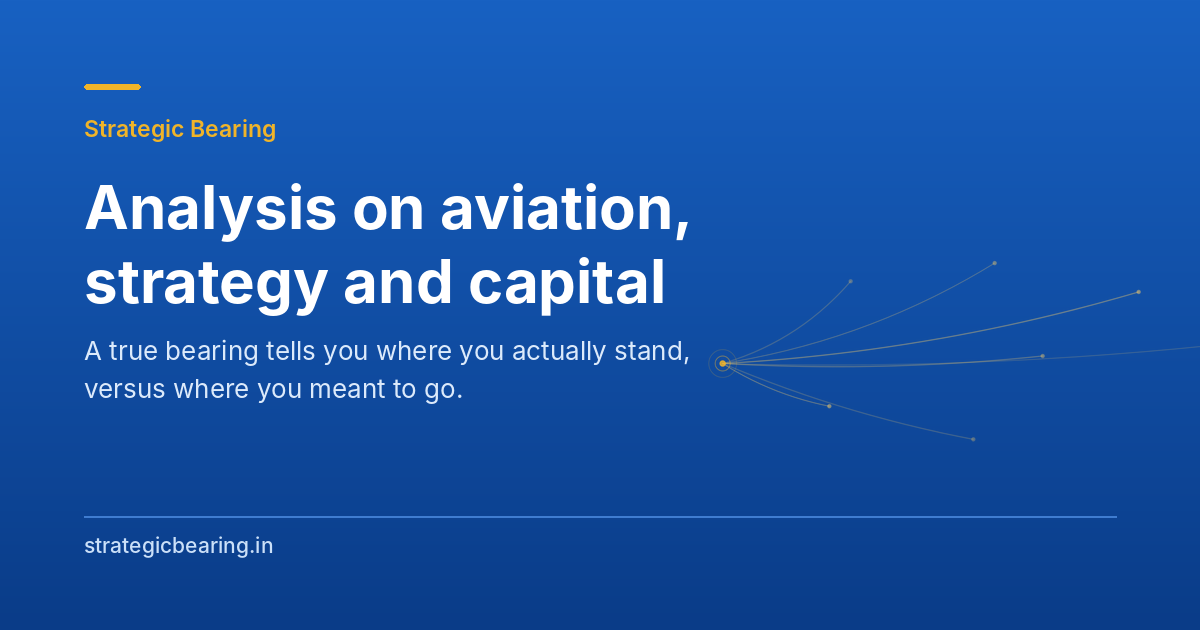
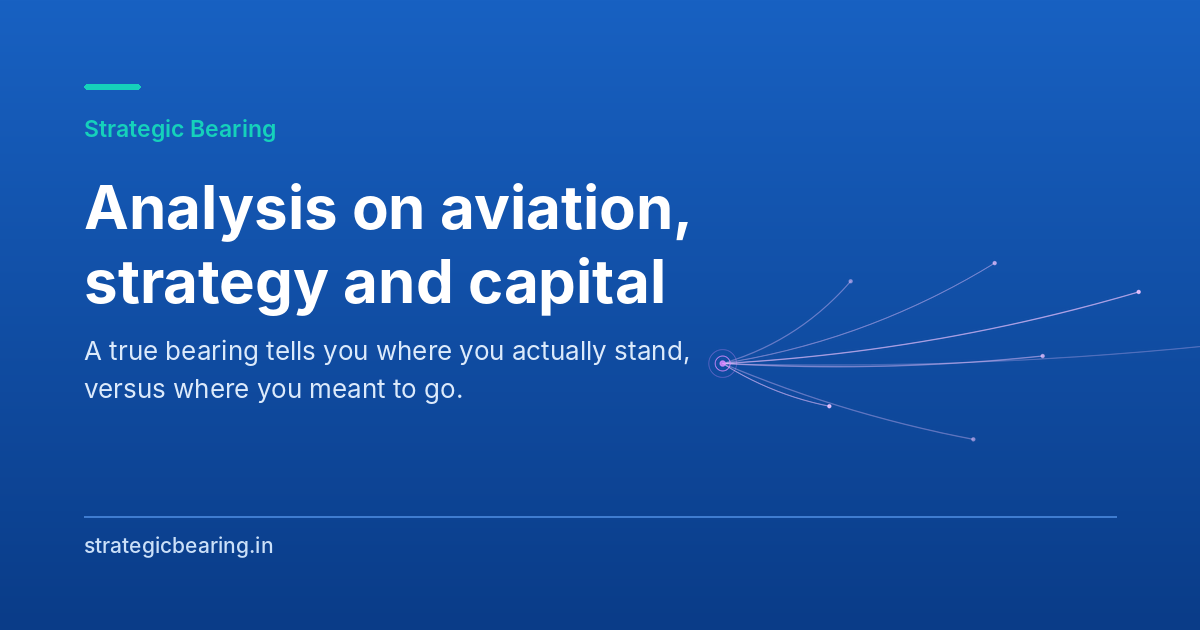
New

diff --git a/index.html b/index.html
@@ -32,10 +32,16 @@
   /* royal blue, taken from the Strategic Bearing deck */
   --ink:#082E63; --navy:#0F55B0; --navy-lift:#2171D6;
   --royal:#2171D6; --royal-deep:#0A3C88;
-  --teal:#0F5FC0;            /* accent text on light surfaces */
-  /* gold: marks, rules and fills only. Nothing saturated reaches 4.5:1 on this
-     blue, so text on blue is white or a pale tint, never the accent. */
-  --accent:#F0B429; --accent-soft:#FFD166;
+  /* mint, sampled from the deck's own accent (#15D1BB). Three steps, because
+     one mint cannot serve both a navy nav bar and white paper:
+       --mint       marks and fills on blue        3.1:1 on royal — rules, not text
+       --mint-soft  text and hover on dark         4.6:1 on the lightest point
+                                                   of the hero gradient, 6.5:1
+                                                   on the nav, 10.2:1 on ink
+       --mint-deep  marks and text on light paper  5.1:1 on paper, 5.7:1 on white */
+  --mint:#15D1BB; --mint-soft:#45FBE6; --mint-deep:#0C7468;
+  --teal:var(--mint-deep);   /* accent text on light surfaces */
+  --accent:var(--mint); --accent-soft:var(--mint-soft);
   --paper:#EEF4FD; --white:#FFFFFF;
   --text:#102A52; --muted:#53688A;
   --line:#DCE7F5; --line-on-dark:rgba(255,255,255,.16);
@@ -70,8 +76,9 @@ p{margin:0 0 18px}
 .marker{display:flex; align-items:center; gap:10px; margin-bottom:14px;
   font-size:13px; font-weight:600; color:var(--muted); letter-spacing:0}
 .marker::before{content:""; width:18px; height:2px; border-radius:2px;
-  background:var(--accent); flex:none}
+  background:var(--mint-deep); flex:none}
 .band--dark .marker{color:#A9C8EC}
+.band--dark .marker::before{background:var(--mint)}
 .lede{font-size:18px; color:var(--muted); margin:14px 0 0; max-width:60ch}
 
 /* buttons — label says what happens, no arrow glyph */
@@ -81,7 +88,7 @@ p{margin:0 0 18px}
   border:1px solid transparent; cursor:pointer;
   transition:background-color .16s ease, border-color .16s ease, color .16s ease}
 .btn--solid{background:var(--accent); color:#17244A}
-.btn--solid:hover{background:#FFC94F}
+.btn--solid:hover{background:var(--mint-soft)}
 .btn--ghost{border-color:rgba(255,255,255,.3); color:#fff}
 .btn--ghost:hover{border-color:var(--accent-soft); color:var(--accent-soft)}
 .btn--dark{background:var(--navy); color:#fff}
@@ -138,10 +145,10 @@ footer a:hover{color:var(--accent-soft)}
 .hero-sub{font-size:17.5px; line-height:1.68; color:#E3EEFB; max-width:58ch; margin-bottom:0}
 .departure{position:absolute; top:50%; right:10px; transform:translateY(-52%);
   width:620px; height:600px; z-index:1; pointer-events:none}
-/* terminal: the real photograph, faded into the hero gradient */
-.roofline{position:absolute; left:0; right:0; bottom:0; width:100%; height:150px;
-  z-index:1; pointer-events:none;
-  background:url('/terminal.png') center bottom / cover no-repeat}
+/* terminal roofline, drawn as vector so it stays exact at any width or DPI */
+.roofline{position:absolute; left:0; right:0; bottom:0; width:100%; height:176px;
+  z-index:1; pointer-events:none; display:block}
+.roofline .roof{display:block; width:100%; height:100%}
 
 /* facts rail under the hero, no caps, no middle dots */
 .facts{border-top:1px solid var(--line-on-dark); background:rgba(255,255,255,.07);
@@ -213,7 +220,7 @@ footer a:hover{color:var(--accent-soft)}
 @media (max-width:760px){
   .hero .wrap{padding-top:68px; padding-bottom:132px}
   .departure{display:none}
-  .roofline{height:104px}
+  .roofline{height:116px}
   .facts .wrap{grid-template-columns:1fr; gap:14px}
   .stop{grid-template-columns:1fr; gap:6px}
   .stop::before{display:none}
@@ -245,11 +252,27 @@ footer a:hover{color:var(--accent-soft)}
 <header class="hero">
   <div class="hero-main">
   <svg class="departure" viewBox="0 0 620 600" aria-hidden="true" focusable="false">
-<path d="M 142.0 368.0 Q 267.1 275.2 318.0 128.0" fill="none" stroke="#FFD166" stroke-width="2.3" opacity="0.30" stroke-linecap="round"/><path d="M 142.0 368.0 Q 337.4 271.4 452.0 86.0" fill="none" stroke="#FFD166" stroke-width="1.7" opacity="0.42" stroke-linecap="round"/><path d="M 142.0 368.0 Q 375.2 311.3 560.0 158.0" fill="none" stroke="#FFD166" stroke-width="1.7" opacity="0.54" stroke-linecap="round"/><path d="M 142.0 368.0 Q 366.6 358.4 578.0 282.0" fill="none" stroke="#FFD166" stroke-width="2.3" opacity="0.30" stroke-linecap="round"/><path d="M 142.0 368.0 Q 314.3 388.0 486.0 364.0" fill="none" stroke="#FFD166" stroke-width="1.7" opacity="0.42" stroke-linecap="round"/><path d="M 142.0 368.0 Q 235.5 336.6 300.0 262.0" fill="none" stroke="#FFD166" stroke-width="1.7" opacity="0.54" stroke-linecap="round"/><path d="M 142.0 368.0 Q 197.1 263.6 206.0 146.0" fill="none" stroke="#FFD166" stroke-width="2.3" opacity="0.30" stroke-linecap="round"/><path d="M 452.0 86.0 Q 494.9 138.6 560.0 158.0" fill="none" stroke="#FFD166" stroke-width="1.2" opacity="0.24" stroke-dasharray="3 5"/><path d="M 300.0 262.0 Q 384.3 328.8 486.0 364.0" fill="none" stroke="#FFD166" stroke-width="1.2" opacity="0.2" stroke-dasharray="3 5"/>
-<circle cx="318" cy="128" r="3.4" fill="#FFD166" opacity="0.42"/><circle cx="452" cy="86" r="3.4" fill="#FFD166" opacity="0.56"/><circle cx="560" cy="158" r="3.4" fill="#FFD166" opacity="0.70"/><circle cx="578" cy="282" r="3.4" fill="#FFD166" opacity="0.42"/><circle cx="486" cy="364" r="3.4" fill="#FFD166" opacity="0.56"/><circle cx="300" cy="262" r="3.4" fill="#FFD166" opacity="0.70"/><circle cx="206" cy="146" r="3.4" fill="#FFD166" opacity="0.42"/>
-<circle cx="142" cy="368" r="30" fill="none" stroke="#F0B429" stroke-width="1" opacity=".3"/><circle cx="142" cy="368" r="17" fill="none" stroke="#F0B429" stroke-width="1.5" opacity=".6"/><circle cx="142" cy="368" r="6" fill="#F0B429" opacity="1"/>
+<path d="M 142.0 368.0 Q 267.1 275.2 318.0 128.0" fill="none" stroke="#45FBE6" stroke-width="2.3" opacity="0.30" stroke-linecap="round"/><path d="M 142.0 368.0 Q 337.4 271.4 452.0 86.0" fill="none" stroke="#45FBE6" stroke-width="1.7" opacity="0.42" stroke-linecap="round"/><path d="M 142.0 368.0 Q 375.2 311.3 560.0 158.0" fill="none" stroke="#45FBE6" stroke-width="1.7" opacity="0.54" stroke-linecap="round"/><path d="M 142.0 368.0 Q 366.6 358.4 578.0 282.0" fill="none" stroke="#45FBE6" stroke-width="2.3" opacity="0.30" stroke-linecap="round"/><path d="M 142.0 368.0 Q 314.3 388.0 486.0 364.0" fill="none" stroke="#45FBE6" stroke-width="1.7" opacity="0.42" stroke-linecap="round"/><path d="M 142.0 368.0 Q 235.5 336.6 300.0 262.0" fill="none" stroke="#45FBE6" stroke-width="1.7" opacity="0.54" stroke-linecap="round"/><path d="M 142.0 368.0 Q 197.1 263.6 206.0 146.0" fill="none" stroke="#45FBE6" stroke-width="2.3" opacity="0.30" stroke-linecap="round"/><path d="M 452.0 86.0 Q 494.9 138.6 560.0 158.0" fill="none" stroke="#45FBE6" stroke-width="1.2" opacity="0.24" stroke-dasharray="3 5"/><path d="M 300.0 262.0 Q 384.3 328.8 486.0 364.0" fill="none" stroke="#45FBE6" stroke-width="1.2" opacity="0.2" stroke-dasharray="3 5"/>
+<circle cx="318" cy="128" r="3.4" fill="#45FBE6" opacity="0.42"/><circle cx="452" cy="86" r="3.4" fill="#45FBE6" opacity="0.56"/><circle cx="560" cy="158" r="3.4" fill="#45FBE6" opacity="0.70"/><circle cx="578" cy="282" r="3.4" fill="#45FBE6" opacity="0.42"/><circle cx="486" cy="364" r="3.4" fill="#45FBE6" opacity="0.56"/><circle cx="300" cy="262" r="3.4" fill="#45FBE6" opacity="0.70"/><circle cx="206" cy="146" r="3.4" fill="#45FBE6" opacity="0.42"/>
+<circle cx="142" cy="368" r="30" fill="none" stroke="#15D1BB" stroke-width="1" opacity=".3"/><circle cx="142" cy="368" r="17" fill="none" stroke="#15D1BB" stroke-width="1.5" opacity=".6"/><circle cx="142" cy="368" r="6" fill="#15D1BB" opacity="1"/>
 </svg>
-  <div class="roofline"></div>
+  <div class="roofline"><svg class="roof" viewBox="0 0 1600 176" preserveAspectRatio="xMidYMax slice" aria-hidden="true" focusable="false" xmlns="http://www.w3.org/2000/svg"><defs>
+<linearGradient id="glass0" x1="0" y1="1" x2="0" y2="0">
+  <stop offset="0" stop-color="#15D1BB" stop-opacity="0"/>
+  <stop offset=".34" stop-color="#15D1BB" stop-opacity=".16"/>
+  <stop offset=".72" stop-color="#45FBE6" stop-opacity=".42"/>
+  <stop offset="1" stop-color="#D8FFF8" stop-opacity=".52"/>
+</linearGradient>
+<linearGradient id="glass1" x1="0" y1="1" x2="0" y2="0">
+  <stop offset="0" stop-color="#15D1BB" stop-opacity="0"/>
+  <stop offset=".6" stop-color="#15D1BB" stop-opacity=".10"/>
+  <stop offset="1" stop-color="#45FBE6" stop-opacity=".16"/>
+</linearGradient>
+<linearGradient id="deckfade" x1="0" y1="0" x2="0" y2="1">
+  <stop offset="0" stop-color="#A8DCFF" stop-opacity=".30"/>
+  <stop offset="1" stop-color="#A8DCFF" stop-opacity="0"/>
+</linearGradient>
+</defs><path d="M -174.0 150 Q -24.0 46.0 126.0 150 L -174.0 150 Z" fill="url(#glass1)" opacity="1"/><line x1="-150.9" y1="135.2" x2="-150.9" y2="150" stroke="#9FD2F5" stroke-width="1.15" opacity="0.1"/><line x1="-127.8" y1="122.9" x2="-127.8" y2="150" stroke="#9FD2F5" stroke-width="1.15" opacity="0.1"/><line x1="-104.8" y1="113.1" x2="-104.8" y2="150" stroke="#9FD2F5" stroke-width="1.15" opacity="0.1"/><line x1="-81.7" y1="105.7" x2="-81.7" y2="150" stroke="#9FD2F5" stroke-width="1.15" opacity="0.1"/><line x1="-58.6" y1="100.8" x2="-58.6" y2="150" stroke="#9FD2F5" stroke-width="1.15" opacity="0.1"/><line x1="-35.5" y1="98.3" x2="-35.5" y2="150" stroke="#9FD2F5" stroke-width="1.15" opacity="0.1"/><line x1="-12.5" y1="98.3" x2="-12.5" y2="150" stroke="#9FD2F5" stroke-width="1.15" opacity="0.1"/><line x1="10.6" y1="100.8" x2="10.6" y2="150" stroke="#9FD2F5" stroke-width="1.15" opacity="0.1"/><line x1="33.7" y1="105.7" x2="33.7" y2="150" stroke="#9FD2F5" stroke-width="1.15" opacity="0.1"/><line x1="56.8" y1="113.1" x2="56.8" y2="150" stroke="#9FD2F5" stroke-width="1.15" opacity="0.1"/><line x1="79.8" y1="122.9" x2="79.8" y2="150" stroke="#9FD2F5" stroke-width="1.15" opacity="0.1"/><line x1="102.9" y1="135.2" x2="102.9" y2="150" stroke="#9FD2F5" stroke-width="1.15" opacity="0.1"/><path d="M 126.0 150 Q 276.0 46.0 426.0 150 L 126.0 150 Z" fill="url(#glass1)" opacity="1"/><line x1="149.1" y1="135.2" x2="149.1" y2="150" stroke="#9FD2F5" stroke-width="1.15" opacity="0.1"/><line x1="172.2" y1="122.9" x2="172.2" y2="150" stroke="#9FD2F5" stroke-width="1.15" opacity="0.1"/><line x1="195.2" y1="113.1" x2="195.2" y2="150" stroke="#9FD2F5" stroke-width="1.15" opacity="0.1"/><line x1="218.3" y1="105.7" x2="218.3" y2="150" stroke="#9FD2F5" stroke-width="1.15" opacity="0.1"/><line x1="241.4" y1="100.8" x2="241.4" y2="150" stroke="#9FD2F5" stroke-width="1.15" opacity="0.1"/><line x1="264.5" y1="98.3" x2="264.5" y2="150" stroke="#9FD2F5" stroke-width="1.15" opacity="0.1"/><line x1="287.5" y1="98.3" x2="287.5" y2="150" stroke="#9FD2F5" stroke-width="1.15" opacity="0.1"/><line x1="310.6" y1="100.8" x2="310.6" y2="150" stroke="#9FD2F5" stroke-width="1.15" opacity="0.1"/><line x1="333.7" y1="105.7" x2="333.7" y2="150" stroke="#9FD2F5" stroke-width="1.15" opacity="0.1"/><line x1="356.8" y1="113.1" x2="356.8" y2="150" stroke="#9FD2F5" stroke-width="1.15" opacity="0.1"/><line x1="379.8" y1="122.9" x2="379.8" y2="150" stroke="#9FD2F5" stroke-width="1.15" opacity="0.1"/><line x1="402.9" y1="135.2" x2="402.9" y2="150" stroke="#9FD2F5" stroke-width="1.15" opacity="0.1"/><path d="M 426.0 150 Q 576.0 46.0 726.0 150 L 426.0 150 Z" fill="url(#glass1)" opacity="1"/><line x1="449.1" y1="135.2" x2="449.1" y2="150" stroke="#9FD2F5" stroke-width="1.15" opacity="0.1"/><line x1="472.2" y1="122.9" x2="472.2" y2="150" stroke="#9FD2F5" stroke-width="1.15" opacity="0.1"/><line x1="495.2" y1="113.1" x2="495.2" y2="150" stroke="#9FD2F5" stroke-width="1.15" opacity="0.1"/><line x1="518.3" y1="105.7" x2="518.3" y2="150" stroke="#9FD2F5" stroke-width="1.15" opacity="0.1"/><line x1="541.4" y1="100.8" x2="541.4" y2="150" stroke="#9FD2F5" stroke-width="1.15" opacity="0.1"/><line x1="564.5" y1="98.3" x2="564.5" y2="150" stroke="#9FD2F5" stroke-width="1.15" opacity="0.1"/><line x1="587.5" y1="98.3" x2="587.5" y2="150" stroke="#9FD2F5" stroke-width="1.15" opacity="0.1"/><line x1="610.6" y1="100.8" x2="610.6" y2="150" stroke="#9FD2F5" stroke-width="1.15" opacity="0.1"/><line x1="633.7" y1="105.7" x2="633.7" y2="150" stroke="#9FD2F5" stroke-width="1.15" opacity="0.1"/><line x1="656.8" y1="113.1" x2="656.8" y2="150" stroke="#9FD2F5" stroke-width="1.15" opacity="0.1"/><line x1="679.8" y1="122.9" x2="679.8" y2="150" stroke="#9FD2F5" stroke-width="1.15" opacity="0.1"/><line x1="702.9" y1="135.2" x2="702.9" y2="150" stroke="#9FD2F5" stroke-width="1.15" opacity="0.1"/><path d="M 726.0 150 Q 876.0 46.0 1026.0 150 L 726.0 150 Z" fill="url(#glass1)" opacity="1"/><line x1="749.1" y1="135.2" x2="749.1" y2="150" stroke="#9FD2F5" stroke-width="1.15" opacity="0.1"/><line x1="772.2" y1="122.9" x2="772.2" y2="150" stroke="#9FD2F5" stroke-width="1.15" opacity="0.1"/><line x1="795.2" y1="113.1" x2="795.2" y2="150" stroke="#9FD2F5" stroke-width="1.15" opacity="0.1"/><line x1="818.3" y1="105.7" x2="818.3" y2="150" stroke="#9FD2F5" stroke-width="1.15" opacity="0.1"/><line x1="841.4" y1="100.8" x2="841.4" y2="150" stroke="#9FD2F5" stroke-width="1.15" opacity="0.1"/><line x1="864.5" y1="98.3" x2="864.5" y2="150" stroke="#9FD2F5" stroke-width="1.15" opacity="0.1"/><line x1="887.5" y1="98.3" x2="887.5" y2="150" stroke="#9FD2F5" stroke-width="1.15" opacity="0.1"/><line x1="910.6" y1="100.8" x2="910.6" y2="150" stroke="#9FD2F5" stroke-width="1.15" opacity="0.1"/><line x1="933.7" y1="105.7" x2="933.7" y2="150" stroke="#9FD2F5" stroke-width="1.15" opacity="0.1"/><line x1="956.8" y1="113.1" x2="956.8" y2="150" stroke="#9FD2F5" stroke-width="1.15" opacity="0.1"/><line x1="979.8" y1="122.9" x2="979.8" y2="150" stroke="#9FD2F5" stroke-width="1.15" opacity="0.1"/><line x1="1002.9" y1="135.2" x2="1002.9" y2="150" stroke="#9FD2F5" stroke-width="1.15" opacity="0.1"/><path d="M 1026.0 150 Q 1176.0 46.0 1326.0 150 L 1026.0 150 Z" fill="url(#glass1)" opacity="1"/><line x1="1049.1" y1="135.2" x2="1049.1" y2="150" stroke="#9FD2F5" stroke-width="1.15" opacity="0.1"/><line x1="1072.2" y1="122.9" x2="1072.2" y2="150" stroke="#9FD2F5" stroke-width="1.15" opacity="0.1"/><line x1="1095.2" y1="113.1" x2="1095.2" y2="150" stroke="#9FD2F5" stroke-width="1.15" opacity="0.1"/><line x1="1118.3" y1="105.7" x2="1118.3" y2="150" stroke="#9FD2F5" stroke-width="1.15" opacity="0.1"/><line x1="1141.4" y1="100.8" x2="1141.4" y2="150" stroke="#9FD2F5" stroke-width="1.15" opacity="0.1"/><line x1="1164.5" y1="98.3" x2="1164.5" y2="150" stroke="#9FD2F5" stroke-width="1.15" opacity="0.1"/><line x1="1187.5" y1="98.3" x2="1187.5" y2="150" stroke="#9FD2F5" stroke-width="1.15" opacity="0.1"/><line x1="1210.6" y1="100.8" x2="1210.6" y2="150" stroke="#9FD2F5" stroke-width="1.15" opacity="0.1"/><line x1="1233.7" y1="105.7" x2="1233.7" y2="150" stroke="#9FD2F5" stroke-width="1.15" opacity="0.1"/><line x1="1256.8" y1="113.1" x2="1256.8" y2="150" stroke="#9FD2F5" stroke-width="1.15" opacity="0.1"/><line x1="1279.8" y1="122.9" x2="1279.8" y2="150" stroke="#9FD2F5" stroke-width="1.15" opacity="0.1"/><line x1="1302.9" y1="135.2" x2="1302.9" y2="150" stroke="#9FD2F5" stroke-width="1.15" opacity="0.1"/><path d="M 1326.0 150 Q 1476.0 46.0 1626.0 150 L 1326.0 150 Z" fill="url(#glass1)" opacity="1"/><line x1="1349.1" y1="135.2" x2="1349.1" y2="150" stroke="#9FD2F5" stroke-width="1.15" opacity="0.1"/><line x1="1372.2" y1="122.9" x2="1372.2" y2="150" stroke="#9FD2F5" stroke-width="1.15" opacity="0.1"/><line x1="1395.2" y1="113.1" x2="1395.2" y2="150" stroke="#9FD2F5" stroke-width="1.15" opacity="0.1"/><line x1="1418.3" y1="105.7" x2="1418.3" y2="150" stroke="#9FD2F5" stroke-width="1.15" opacity="0.1"/><line x1="1441.4" y1="100.8" x2="1441.4" y2="150" stroke="#9FD2F5" stroke-width="1.15" opacity="0.1"/><line x1="1464.5" y1="98.3" x2="1464.5" y2="150" stroke="#9FD2F5" stroke-width="1.15" opacity="0.1"/><line x1="1487.5" y1="98.3" x2="1487.5" y2="150" stroke="#9FD2F5" stroke-width="1.15" opacity="0.1"/><line x1="1510.6" y1="100.8" x2="1510.6" y2="150" stroke="#9FD2F5" stroke-width="1.15" opacity="0.1"/><line x1="1533.7" y1="105.7" x2="1533.7" y2="150" stroke="#9FD2F5" stroke-width="1.15" opacity="0.1"/><line x1="1556.8" y1="113.1" x2="1556.8" y2="150" stroke="#9FD2F5" stroke-width="1.15" opacity="0.1"/><line x1="1579.8" y1="122.9" x2="1579.8" y2="150" stroke="#9FD2F5" stroke-width="1.15" opacity="0.1"/><line x1="1602.9" y1="135.2" x2="1602.9" y2="150" stroke="#9FD2F5" stroke-width="1.15" opacity="0.1"/><path d="M -86.2 154 Q 109.8 4.0 305.8 154 L -86.2 154 Z" fill="url(#glass0)" opacity="1"/><line x1="-69.2" y1="141.5" x2="-69.2" y2="154" stroke="#0A2A5C" stroke-width="1.15" opacity="0.46"/><line x1="-52.2" y1="130.2" x2="-52.2" y2="154" stroke="#0A2A5C" stroke-width="1.15" opacity="0.46"/><line x1="-35.1" y1="120.0" x2="-35.1" y2="154" stroke="#0A2A5C" stroke-width="1.15" opacity="0.46"/><line x1="-18.1" y1="110.9" x2="-18.1" y2="154" stroke="#0A2A5C" stroke-width="1.15" opacity="0.46"/><line x1="-1.0" y1="103.0" x2="-1.0" y2="154" stroke="#0A2A5C" stroke-width="1.15" opacity="0.46"/><line x1="16.0" y1="96.2" x2="16.0" y2="154" stroke="#0A2A5C" stroke-width="1.15" opacity="0.46"/><line x1="33.1" y1="90.5" x2="33.1" y2="154" stroke="#0A2A5C" stroke-width="1.15" opacity="0.46"/><line x1="50.1" y1="85.9" x2="50.1" y2="154" stroke="#0A2A5C" stroke-width="1.15" opacity="0.46"/><line x1="67.2" y1="82.5" x2="67.2" y2="154" stroke="#0A2A5C" stroke-width="1.15" opacity="0.46"/><line x1="84.2" y1="80.3" x2="84.2" y2="154" stroke="#0A2A5C" stroke-width="1.15" opacity="0.46"/><line x1="101.2" y1="79.1" x2="101.2" y2="154" stroke="#0A2A5C" stroke-width="1.15" opacity="0.46"/><line x1="118.3" y1="79.1" x2="118.3" y2="154" stroke="#0A2A5C" stroke-width="1.15" opacity="0.46"/><line x1="135.3" y1="80.3" x2="135.3" y2="154" stroke="#0A2A5C" stroke-width="1.15" opacity="0.46"/><line x1="152.4" y1="82.5" x2="152.4" y2="154" stroke="#0A2A5C" stroke-width="1.15" opacity="0.46"/><line x1="169.4" y1="85.9" x2="169.4" y2="154" stroke="#0A2A5C" stroke-width="1.15" opacity="0.46"/><line x1="186.5" y1="90.5" x2="186.5" y2="154" stroke="#0A2A5C" stroke-width="1.15" opacity="0.46"/><line x1="203.5" y1="96.2" x2="203.5" y2="154" stroke="#0A2A5C" stroke-width="1.15" opacity="0.46"/><line x1="220.5" y1="103.0" x2="220.5" y2="154" stroke="#0A2A5C" stroke-width="1.15" opacity="0.46"/><line x1="237.6" y1="110.9" x2="237.6" y2="154" stroke="#0A2A5C" stroke-width="1.15" opacity="0.46"/><line x1="254.6" y1="120.0" x2="254.6" y2="154" stroke="#0A2A5C" stroke-width="1.15" opacity="0.46"/><line x1="271.7" y1="130.2" x2="271.7" y2="154" stroke="#0A2A5C" stroke-width="1.15" opacity="0.46"/><line x1="288.7" y1="141.5" x2="288.7" y2="154" stroke="#0A2A5C" stroke-width="1.15" opacity="0.46"/><path d="M -86.2 154 Q 109.8 4.0 305.8 154" fill="none" stroke="#0A2A5C" stroke-width="2.6" opacity="0.74" stroke-linecap="round"/><path d="M 305.8 154 Q 501.8 4.0 697.8 154 L 305.8 154 Z" fill="url(#glass0)" opacity="1"/><line x1="322.8" y1="141.5" x2="322.8" y2="154" stroke="#0A2A5C" stroke-width="1.15" opacity="0.46"/><line x1="339.8" y1="130.2" x2="339.8" y2="154" stroke="#0A2A5C" stroke-width="1.15" opacity="0.46"/><line x1="356.9" y1="120.0" x2="356.9" y2="154" stroke="#0A2A5C" stroke-width="1.15" opacity="0.46"/><line x1="373.9" y1="110.9" x2="373.9" y2="154" stroke="#0A2A5C" stroke-width="1.15" opacity="0.46"/><line x1="391.0" y1="103.0" x2="391.0" y2="154" stroke="#0A2A5C" stroke-width="1.15" opacity="0.46"/><line x1="408.0" y1="96.2" x2="408.0" y2="154" stroke="#0A2A5C" stroke-width="1.15" opacity="0.46"/><line x1="425.1" y1="90.5" x2="425.1" y2="154" stroke="#0A2A5C" stroke-width="1.15" opacity="0.46"/><line x1="442.1" y1="85.9" x2="442.1" y2="154" stroke="#0A2A5C" stroke-width="1.15" opacity="0.46"/><line x1="459.2" y1="82.5" x2="459.2" y2="154" stroke="#0A2A5C" stroke-width="1.15" opacity="0.46"/><line x1="476.2" y1="80.3" x2="476.2" y2="154" stroke="#0A2A5C" stroke-width="1.15" opacity="0.46"/><line x1="493.2" y1="79.1" x2="493.2" y2="154" stroke="#0A2A5C" stroke-width="1.15" opacity="0.46"/><line x1="510.3" y1="79.1" x2="510.3" y2="154" stroke="#0A2A5C" stroke-width="1.15" opacity="0.46"/><line x1="527.3" y1="80.3" x2="527.3" y2="154" stroke="#0A2A5C" stroke-width="1.15" opacity="0.46"/><line x1="544.4" y1="82.5" x2="544.4" y2="154" stroke="#0A2A5C" stroke-width="1.15" opacity="0.46"/><line x1="561.4" y1="85.9" x2="561.4" y2="154" stroke="#0A2A5C" stroke-width="1.15" opacity="0.46"/><line x1="578.5" y1="90.5" x2="578.5" y2="154" stroke="#0A2A5C" stroke-width="1.15" opacity="0.46"/><line x1="595.5" y1="96.2" x2="595.5" y2="154" stroke="#0A2A5C" stroke-width="1.15" opacity="0.46"/><line x1="612.5" y1="103.0" x2="612.5" y2="154" stroke="#0A2A5C" stroke-width="1.15" opacity="0.46"/><line x1="629.6" y1="110.9" x2="629.6" y2="154" stroke="#0A2A5C" stroke-width="1.15" opacity="0.46"/><line x1="646.6" y1="120.0" x2="646.6" y2="154" stroke="#0A2A5C" stroke-width="1.15" opacity="0.46"/><line x1="663.7" y1="130.2" x2="663.7" y2="154" stroke="#0A2A5C" stroke-width="1.15" opacity="0.46"/><line x1="680.7" y1="141.5" x2="680.7" y2="154" stroke="#0A2A5C" stroke-width="1.15" opacity="0.46"/><path d="M 305.8 154 Q 501.8 4.0 697.8 154" fill="none" stroke="#0A2A5C" stroke-width="2.6" opacity="0.74" stroke-linecap="round"/><path d="M 697.8 154 Q 893.8 4.0 1089.8 154 L 697.8 154 Z" fill="url(#glass0)" opacity="1"/><line x1="714.8" y1="141.5" x2="714.8" y2="154" stroke="#0A2A5C" stroke-width="1.15" opacity="0.46"/><line x1="731.8" y1="130.2" x2="731.8" y2="154" stroke="#0A2A5C" stroke-width="1.15" opacity="0.46"/><line x1="748.9" y1="120.0" x2="748.9" y2="154" stroke="#0A2A5C" stroke-width="1.15" opacity="0.46"/><line x1="765.9" y1="110.9" x2="765.9" y2="154" stroke="#0A2A5C" stroke-width="1.15" opacity="0.46"/><line x1="783.0" y1="103.0" x2="783.0" y2="154" stroke="#0A2A5C" stroke-width="1.15" opacity="0.46"/><line x1="800.0" y1="96.2" x2="800.0" y2="154" stroke="#0A2A5C" stroke-width="1.15" opacity="0.46"/><line x1="817.1" y1="90.5" x2="817.1" y2="154" stroke="#0A2A5C" stroke-width="1.15" opacity="0.46"/><line x1="834.1" y1="85.9" x2="834.1" y2="154" stroke="#0A2A5C" stroke-width="1.15" opacity="0.46"/><line x1="851.2" y1="82.5" x2="851.2" y2="154" stroke="#0A2A5C" stroke-width="1.15" opacity="0.46"/><line x1="868.2" y1="80.3" x2="868.2" y2="154" stroke="#0A2A5C" stroke-width="1.15" opacity="0.46"/><line x1="885.2" y1="79.1" x2="885.2" y2="154" stroke="#0A2A5C" stroke-width="1.15" opacity="0.46"/><line x1="902.3" y1="79.1" x2="902.3" y2="154" stroke="#0A2A5C" stroke-width="1.15" opacity="0.46"/><line x1="919.3" y1="80.3" x2="919.3" y2="154" stroke="#0A2A5C" stroke-width="1.15" opacity="0.46"/><line x1="936.4" y1="82.5" x2="936.4" y2="154" stroke="#0A2A5C" stroke-width="1.15" opacity="0.46"/><line x1="953.4" y1="85.9" x2="953.4" y2="154" stroke="#0A2A5C" stroke-width="1.15" opacity="0.46"/><line x1="970.5" y1="90.5" x2="970.5" y2="154" stroke="#0A2A5C" stroke-width="1.15" opacity="0.46"/><line x1="987.5" y1="96.2" x2="987.5" y2="154" stroke="#0A2A5C" stroke-width="1.15" opacity="0.46"/><line x1="1004.5" y1="103.0" x2="1004.5" y2="154" stroke="#0A2A5C" stroke-width="1.15" opacity="0.46"/><line x1="1021.6" y1="110.9" x2="1021.6" y2="154" stroke="#0A2A5C" stroke-width="1.15" opacity="0.46"/><line x1="1038.6" y1="120.0" x2="1038.6" y2="154" stroke="#0A2A5C" stroke-width="1.15" opacity="0.46"/><line x1="1055.7" y1="130.2" x2="1055.7" y2="154" stroke="#0A2A5C" stroke-width="1.15" opacity="0.46"/><line x1="1072.7" y1="141.5" x2="1072.7" y2="154" stroke="#0A2A5C" stroke-width="1.15" opacity="0.46"/><path d="M 697.8 154 Q 893.8 4.0 1089.8 154" fill="none" stroke="#0A2A5C" stroke-width="2.6" opacity="0.74" stroke-linecap="round"/><path d="M 1089.8 154 Q 1285.8 4.0 1481.8 154 L 1089.8 154 Z" fill="url(#glass0)" opacity="1"/><line x1="1106.8" y1="141.5" x2="1106.8" y2="154" stroke="#0A2A5C" stroke-width="1.15" opacity="0.46"/><line x1="1123.8" y1="130.2" x2="1123.8" y2="154" stroke="#0A2A5C" stroke-width="1.15" opacity="0.46"/><line x1="1140.9" y1="120.0" x2="1140.9" y2="154" stroke="#0A2A5C" stroke-width="1.15" opacity="0.46"/><line x1="1157.9" y1="110.9" x2="1157.9" y2="154" stroke="#0A2A5C" stroke-width="1.15" opacity="0.46"/><line x1="1175.0" y1="103.0" x2="1175.0" y2="154" stroke="#0A2A5C" stroke-width="1.15" opacity="0.46"/><line x1="1192.0" y1="96.2" x2="1192.0" y2="154" stroke="#0A2A5C" stroke-width="1.15" opacity="0.46"/><line x1="1209.1" y1="90.5" x2="1209.1" y2="154" stroke="#0A2A5C" stroke-width="1.15" opacity="0.46"/><line x1="1226.1" y1="85.9" x2="1226.1" y2="154" stroke="#0A2A5C" stroke-width="1.15" opacity="0.46"/><line x1="1243.2" y1="82.5" x2="1243.2" y2="154" stroke="#0A2A5C" stroke-width="1.15" opacity="0.46"/><line x1="1260.2" y1="80.3" x2="1260.2" y2="154" stroke="#0A2A5C" stroke-width="1.15" opacity="0.46"/><line x1="1277.2" y1="79.1" x2="1277.2" y2="154" stroke="#0A2A5C" stroke-width="1.15" opacity="0.46"/><line x1="1294.3" y1="79.1" x2="1294.3" y2="154" stroke="#0A2A5C" stroke-width="1.15" opacity="0.46"/><line x1="1311.3" y1="80.3" x2="1311.3" y2="154" stroke="#0A2A5C" stroke-width="1.15" opacity="0.46"/><line x1="1328.4" y1="82.5" x2="1328.4" y2="154" stroke="#0A2A5C" stroke-width="1.15" opacity="0.46"/><line x1="1345.4" y1="85.9" x2="1345.4" y2="154" stroke="#0A2A5C" stroke-width="1.15" opacity="0.46"/><line x1="1362.5" y1="90.5" x2="1362.5" y2="154" stroke="#0A2A5C" stroke-width="1.15" opacity="0.46"/><line x1="1379.5" y1="96.2" x2="1379.5" y2="154" stroke="#0A2A5C" stroke-width="1.15" opacity="0.46"/><line x1="1396.5" y1="103.0" x2="1396.5" y2="154" stroke="#0A2A5C" stroke-width="1.15" opacity="0.46"/><line x1="1413.6" y1="110.9" x2="1413.6" y2="154" stroke="#0A2A5C" stroke-width="1.15" opacity="0.46"/><line x1="1430.6" y1="120.0" x2="1430.6" y2="154" stroke="#0A2A5C" stroke-width="1.15" opacity="0.46"/><line x1="1447.7" y1="130.2" x2="1447.7" y2="154" stroke="#0A2A5C" stroke-width="1.15" opacity="0.46"/><line x1="1464.7" y1="141.5" x2="1464.7" y2="154" stroke="#0A2A5C" stroke-width="1.15" opacity="0.46"/><path d="M 1089.8 154 Q 1285.8 4.0 1481.8 154" fill="none" stroke="#0A2A5C" stroke-width="2.6" opacity="0.74" stroke-linecap="round"/><path d="M 1481.8 154 Q 1677.8 4.0 1873.8 154 L 1481.8 154 Z" fill="url(#glass0)" opacity="1"/><line x1="1498.8" y1="141.5" x2="1498.8" y2="154" stroke="#0A2A5C" stroke-width="1.15" opacity="0.46"/><line x1="1515.8" y1="130.2" x2="1515.8" y2="154" stroke="#0A2A5C" stroke-width="1.15" opacity="0.46"/><line x1="1532.9" y1="120.0" x2="1532.9" y2="154" stroke="#0A2A5C" stroke-width="1.15" opacity="0.46"/><line x1="1549.9" y1="110.9" x2="1549.9" y2="154" stroke="#0A2A5C" stroke-width="1.15" opacity="0.46"/><line x1="1567.0" y1="103.0" x2="1567.0" y2="154" stroke="#0A2A5C" stroke-width="1.15" opacity="0.46"/><line x1="1584.0" y1="96.2" x2="1584.0" y2="154" stroke="#0A2A5C" stroke-width="1.15" opacity="0.46"/><line x1="1601.1" y1="90.5" x2="1601.1" y2="154" stroke="#0A2A5C" stroke-width="1.15" opacity="0.46"/><line x1="1618.1" y1="85.9" x2="1618.1" y2="154" stroke="#0A2A5C" stroke-width="1.15" opacity="0.46"/><line x1="1635.2" y1="82.5" x2="1635.2" y2="154" stroke="#0A2A5C" stroke-width="1.15" opacity="0.46"/><line x1="1652.2" y1="80.3" x2="1652.2" y2="154" stroke="#0A2A5C" stroke-width="1.15" opacity="0.46"/><line x1="1669.2" y1="79.1" x2="1669.2" y2="154" stroke="#0A2A5C" stroke-width="1.15" opacity="0.46"/><line x1="1686.3" y1="79.1" x2="1686.3" y2="154" stroke="#0A2A5C" stroke-width="1.15" opacity="0.46"/><line x1="1703.3" y1="80.3" x2="1703.3" y2="154" stroke="#0A2A5C" stroke-width="1.15" opacity="0.46"/><line x1="1720.4" y1="82.5" x2="1720.4" y2="154" stroke="#0A2A5C" stroke-width="1.15" opacity="0.46"/><line x1="1737.4" y1="85.9" x2="1737.4" y2="154" stroke="#0A2A5C" stroke-width="1.15" opacity="0.46"/><line x1="1754.5" y1="90.5" x2="1754.5" y2="154" stroke="#0A2A5C" stroke-width="1.15" opacity="0.46"/><line x1="1771.5" y1="96.2" x2="1771.5" y2="154" stroke="#0A2A5C" stroke-width="1.15" opacity="0.46"/><line x1="1788.5" y1="103.0" x2="1788.5" y2="154" stroke="#0A2A5C" stroke-width="1.15" opacity="0.46"/><line x1="1805.6" y1="110.9" x2="1805.6" y2="154" stroke="#0A2A5C" stroke-width="1.15" opacity="0.46"/><line x1="1822.6" y1="120.0" x2="1822.6" y2="154" stroke="#0A2A5C" stroke-width="1.15" opacity="0.46"/><line x1="1839.7" y1="130.2" x2="1839.7" y2="154" stroke="#0A2A5C" stroke-width="1.15" opacity="0.46"/><line x1="1856.7" y1="141.5" x2="1856.7" y2="154" stroke="#0A2A5C" stroke-width="1.15" opacity="0.46"/><path d="M 1481.8 154 Q 1677.8 4.0 1873.8 154" fill="none" stroke="#0A2A5C" stroke-width="2.6" opacity="0.74" stroke-linecap="round"/><rect x="0" y="154" width="1600" height="2.4" fill="#0A2A5C" opacity=".46"/><rect x="0" y="156" width="1600" height="20" fill="url(#deckfade)"/></svg></div>
   <div class="wrap">
     <div class="hero-copy">
       <h1>Kevin Jose</h1>
@@ -360,7 +383,7 @@ footer a:hover{color:var(--accent-soft)}
     <div class="marker">Tools</div>
     <div class="tool">
       <svg class="tool-arcs" viewBox="0 0 340 340" aria-hidden="true">
-        <g fill="none" stroke="#FFD166" stroke-width="1">
+        <g fill="none" stroke="#45FBE6" stroke-width="1">
           <circle cx="170" cy="170" r="162" opacity=".22"/>
           <circle cx="170" cy="170" r="122" opacity=".16" stroke-dasharray="2 7"/>
           <circle cx="170" cy="170" r="82" opacity=".12"/>

diff --git a/tools/index.html b/tools/index.html
@@ -27,7 +27,7 @@
 "author":{"@type":"Person","name":"Kevin Jose","url":"https://www.linkedin.com/in/kevinjv"}}
 </script>
 <style>
-:root{--navy:#0B3A77;--blue:#0F5FC0;--teal:#0E7FA8;--bg:#EEF4FD;--card:#FFF;--line:#DCE7F5;
+:root{--navy:#0B3A77;--blue:#0F5FC0;--teal:#0C7468;--bg:#EEF4FD;--card:#FFF;--line:#DCE7F5;
 --mute:#53688A;--body:#2C4166;--amber:#8A5A10;
 box-sizing:border-box;padding-top:env(safe-area-inset-top,0px);padding-bottom:env(safe-area-inset-bottom,0px)}
 @media(prefers-color-scheme:dark){:root:not([data-theme="light"]){--bg:#11161D;--card:#192029;--line:#2A3542;--body:#D4D9E0;--mute:#8C98A6;--navy:#D7E3F0}}
@@ -35,7 +35,7 @@ box-sizing:border-box;padding-top:env(safe-area-inset-top,0px);padding-bottom:en
 body{font-variant-numeric:tabular-nums;margin:0;background:var(--bg);color:var(--body);
  font-family:'Inter',-apple-system,BlinkMacSystemFont,'Segoe UI',Helvetica,Arial,sans-serif;font-size:16px;line-height:1.55}
 .wrap{max-width:900px;margin:0 auto;padding:0 20px}
-.sbnav{position:sticky;top:0;z-index:100;background:rgba(8,46,99,.94);
+.sbnav{position:sticky;top:0;z-index:100;background:rgba(14,74,156,.95);
  backdrop-filter:saturate(1.4) blur(10px);border-bottom:1px solid rgba(255,255,255,.13)}
 .sbnav .wrap{display:flex;align-items:center;justify-content:space-between;height:68px;gap:18px}
 .sbmark{display:flex;align-items:center;text-decoration:none}
@@ -43,12 +43,12 @@ body{font-variant-numeric:tabular-nums;margin:0;background:var(--bg);color:var(-
 .sblinks{display:flex;gap:28px;list-style:none;margin:0;padding:0}
 .sblinks a{font-family:inherit;font-size:14.5px;font-weight:500;color:rgba(255,255,255,.78);
  text-decoration:none;transition:color .15s ease}
-.sblinks a:hover,.sblinks a.active{color:#FFD166}
-.sblinks a:focus-visible{outline:2px solid #FFD166;outline-offset:4px;border-radius:3px}
+.sblinks a:hover,.sblinks a.active{color:#45FBE6}
+.sblinks a:focus-visible{outline:2px solid #45FBE6;outline-offset:4px;border-radius:3px}
 .sitefoot{background:#082E63;color:rgba(255,255,255,.62);padding:36px 0;font-size:14px;margin-top:44px}
 .sitefoot .wrap{display:flex;justify-content:space-between;align-items:center;flex-wrap:wrap;gap:14px}
 .sitefoot a{color:rgba(255,255,255,.78);text-decoration:none}
-.sitefoot a:hover{color:#FFD166}
+.sitefoot a:hover{color:#45FBE6}
 .sitefoot .fl{display:flex;gap:22px}
 .sbfoot{background:none;color:var(--mute);font-size:13.5px;line-height:1.6;
  border-top:1px solid var(--line);padding:20px 0 0;margin-top:34px}

diff --git a/strategic-bearing.html b/strategic-bearing.html
@@ -25,10 +25,16 @@
   /* royal blue, taken from the Strategic Bearing deck */
   --ink:#082E63; --navy:#0F55B0; --navy-lift:#2171D6;
   --royal:#2171D6; --royal-deep:#0A3C88;
-  --teal:#0F5FC0;            /* accent text on light surfaces */
-  /* gold: marks, rules and fills only. Nothing saturated reaches 4.5:1 on this
-     blue, so text on blue is white or a pale tint, never the accent. */
-  --accent:#F0B429; --accent-soft:#FFD166;
+  /* mint, sampled from the deck's own accent (#15D1BB). Three steps, because
+     one mint cannot serve both a navy nav bar and white paper:
+       --mint       marks and fills on blue        3.1:1 on royal — rules, not text
+       --mint-soft  text and hover on dark         4.6:1 on the lightest point
+                                                   of the hero gradient, 6.5:1
+                                                   on the nav, 10.2:1 on ink
+       --mint-deep  marks and text on light paper  5.1:1 on paper, 5.7:1 on white */
+  --mint:#15D1BB; --mint-soft:#45FBE6; --mint-deep:#0C7468;
+  --teal:var(--mint-deep);   /* accent text on light surfaces */
+  --accent:var(--mint); --accent-soft:var(--mint-soft);
   --paper:#EEF4FD; --white:#FFFFFF;
   --text:#102A52; --muted:#53688A;
   --line:#DCE7F5; --line-on-dark:rgba(255,255,255,.16);
@@ -63,8 +69,9 @@ p{margin:0 0 18px}
 .marker{display:flex; align-items:center; gap:10px; margin-bottom:14px;
   font-size:13px; font-weight:600; color:var(--muted); letter-spacing:0}
 .marker::before{content:""; width:18px; height:2px; border-radius:2px;
-  background:var(--accent); flex:none}
+  background:var(--mint-deep); flex:none}
 .band--dark .marker{color:#A9C8EC}
+.band--dark .marker::before{background:var(--mint)}
 .lede{font-size:18px; color:var(--muted); margin:14px 0 0; max-width:60ch}
 
 /* buttons — label says what happens, no arrow glyph */
@@ -74,7 +81,7 @@ p{margin:0 0 18px}
   border:1px solid transparent; cursor:pointer;
   transition:background-color .16s ease, border-color .16s ease, color .16s ease}
 .btn--solid{background:var(--accent); color:#17244A}
-.btn--solid:hover{background:#FFC94F}
+.btn--solid:hover{background:var(--mint-soft)}
 .btn--ghost{border-color:rgba(255,255,255,.3); color:#fff}
 .btn--ghost:hover{border-color:var(--accent-soft); color:var(--accent-soft)}
 .btn--dark{background:var(--navy); color:#fff}

diff --git a/tools/airport-charges/index.html b/tools/airport-charges/index.html
@@ -99,7 +99,7 @@ footer{border-top:1px solid var(--line);padding:15px 0 34px;font-size:11px;color
 footer p{margin:0 0 6px}
 .hidden{display:none}
 
-.sbnav{position:sticky;top:0;z-index:100;background:rgba(8,46,99,.94);
+.sbnav{position:sticky;top:0;z-index:100;background:rgba(14,74,156,.95);
  backdrop-filter:saturate(1.4) blur(10px);border-bottom:1px solid rgba(255,255,255,.13)}
 .sbnav .wrap{display:flex;align-items:center;justify-content:space-between;height:68px;gap:18px}
 .sbmark{display:flex;align-items:center;text-decoration:none}
@@ -107,12 +107,12 @@ footer p{margin:0 0 6px}
 .sblinks{display:flex;gap:28px;list-style:none;margin:0;padding:0}
 .sblinks a{font-family:inherit;font-size:14.5px;font-weight:500;color:rgba(255,255,255,.78);
  text-decoration:none;transition:color .15s ease}
-.sblinks a:hover,.sblinks a.active{color:#FFD166}
-.sblinks a:focus-visible{outline:2px solid #FFD166;outline-offset:4px;border-radius:3px}
+.sblinks a:hover,.sblinks a.active{color:#45FBE6}
+.sblinks a:focus-visible{outline:2px solid #45FBE6;outline-offset:4px;border-radius:3px}
 .sitefoot{background:#082E63;color:rgba(255,255,255,.62);padding:36px 0;font-size:14px;margin-top:44px}
 .sitefoot .wrap{display:flex;justify-content:space-between;align-items:center;flex-wrap:wrap;gap:14px}
 .sitefoot a{color:rgba(255,255,255,.78);text-decoration:none}
-.sitefoot a:hover{color:#FFD166}
+.sitefoot a:hover{color:#45FBE6}
 .sitefoot .fl{display:flex;gap:22px}
 .sbfoot{background:none;color:var(--mute);font-size:13.5px;line-height:1.6;
  border-top:1px solid var(--line);padding:20px 0 0;margin-top:34px}
